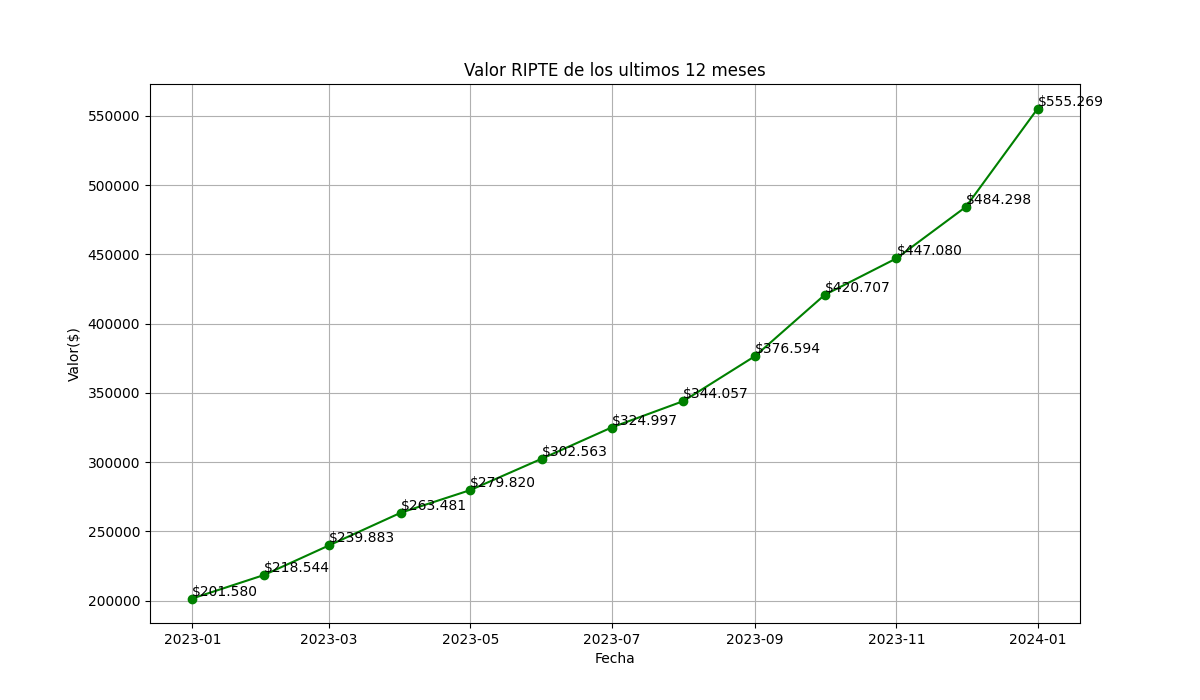
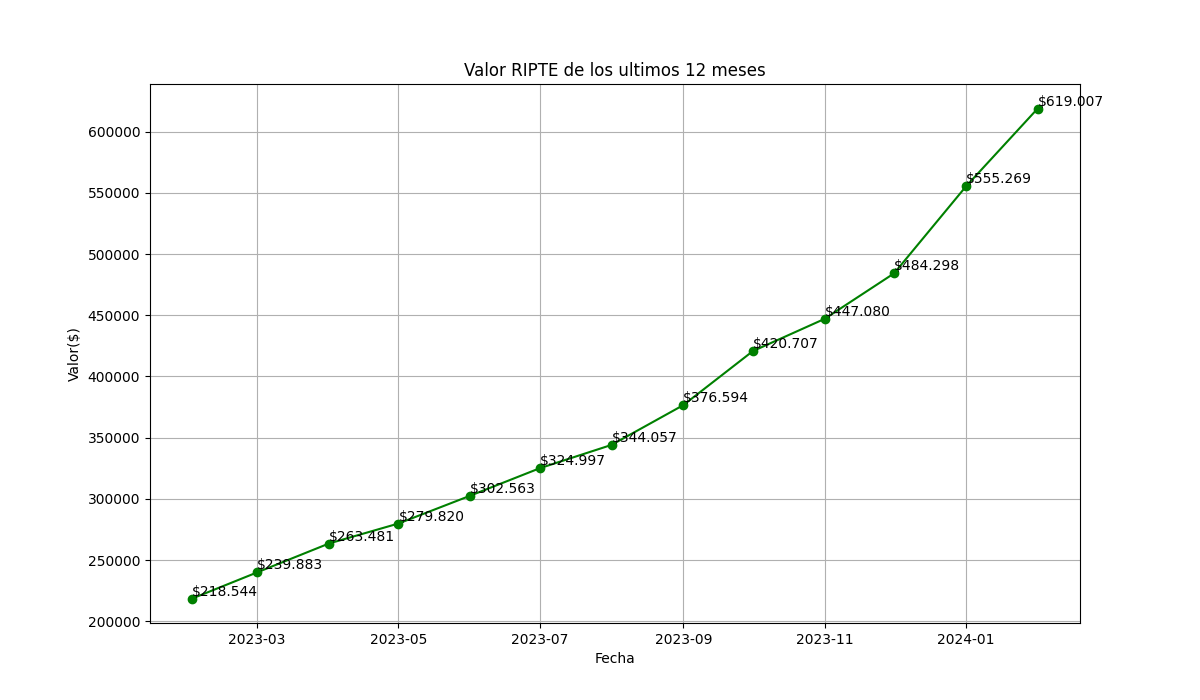
ripte

diff --git a/scarp_RIPTE/main.py b/scarp_RIPTE/main.py
@@ -25,8 +25,8 @@ credenciales_ipecd_economico = Credenciales("ipecd_economico")
 
 if __name__ == "__main__":
     # Obtencion del archivo
-    # home_page = HomePage()
-    # home_page.descargar_archivo()
+    home_page = HomePage()
+    home_page.descargar_archivo()
     # ripte_cargaHistorico().loadInDataBase(credenciales_datalake_economico.host, credenciales_datalake_economico.user, credenciales_datalake_economico.password, credenciales_datalake_economico.database)
     # ↓↓↓↓↓↓↓↓↓↓↓↓CARGA DEL TABLERO ↓↓↓↓↓↓↓↓↓↓↓↓
     # ripte_cargaHistorico().loadInDataBase(credenciales_ipecd_economico.host, credenciales_ipecd_economico.user, credenciales_ipecd_economico.password, credenciales_ipecd_economico.database)
